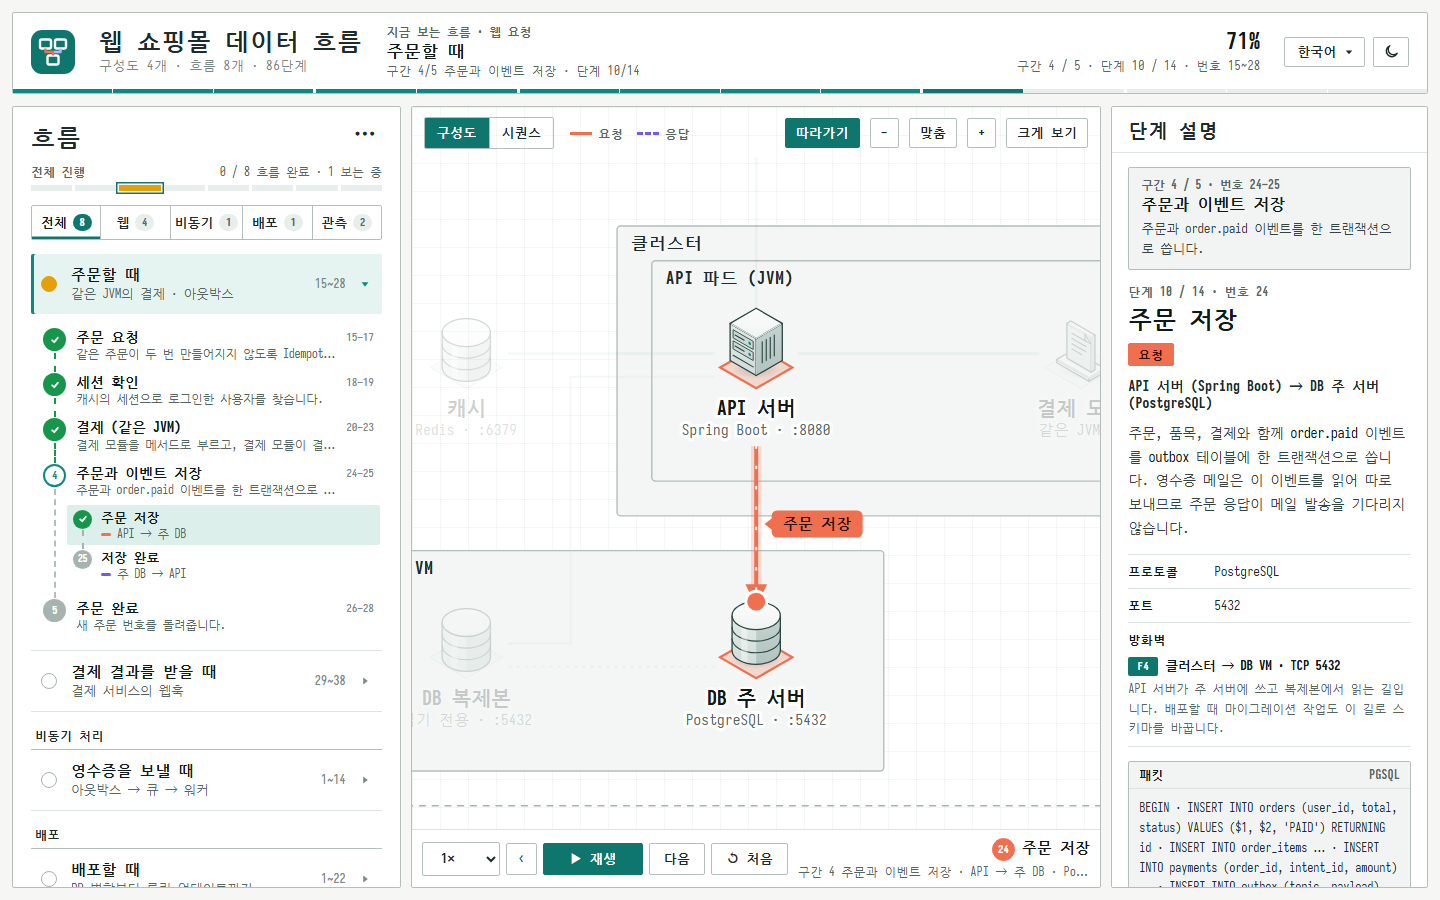
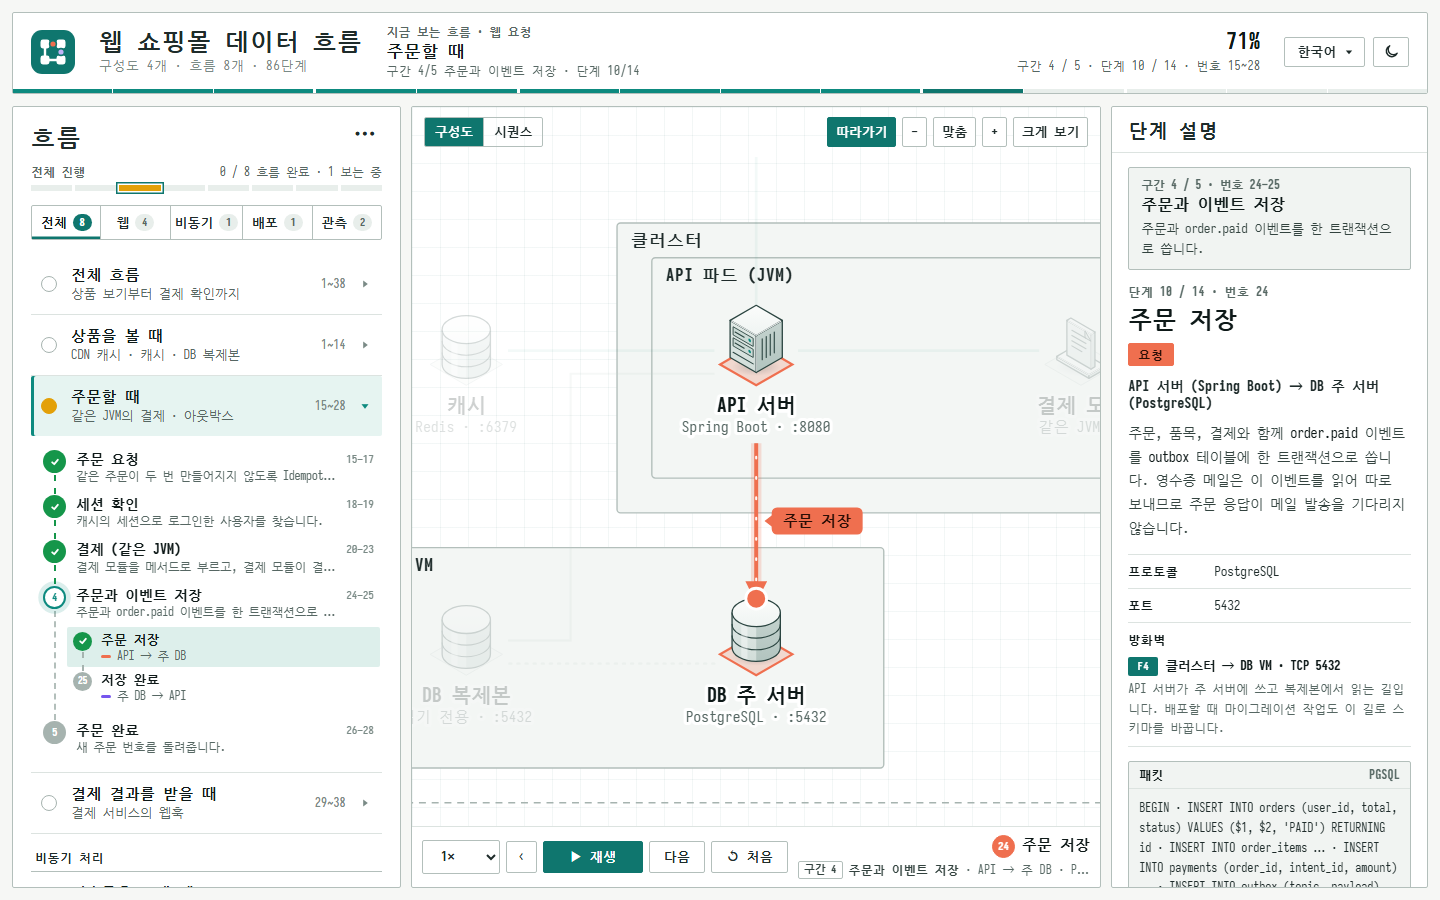
docs: restyle the README with a centered header, badges and tables
Centered logo, name, badges and tagline up top, then short H2 sections
with annotated code blocks and tables for the screen layout, examples
and data files. Adds docs/logo.svg (the header logo as a standalone
file) and retakes both screenshots on the current engine.

diff --git a/README.md b/README.md
@@ -1,57 +1,128 @@
-# flow-explorer
+<p align="center">
+  <img src="docs/logo.svg" width="80" alt="flow-explorer 로고">
+</p>
 
-프로젝트의 구성(서버·컨테이너·DB·외부 서비스)과 요청·응답 흐름을 단계별로 재생하는 **데이터 흐름 탐색기**를 만드는 Claude Code 플러그인입니다. 결과는 글꼴·로고·데이터가 모두 들어간 HTML 파일 하나라서 인터넷 없이 열립니다.
+<h2 align="center">flow-explorer</h2>
+
+<p align="center">
+  <a href=".claude-plugin/plugin.json"><img src="https://img.shields.io/badge/version-0.2.4-1a1a1a?style=for-the-badge" alt="version 0.2.4"></a>
+  <a href="LICENSE"><img src="https://img.shields.io/badge/license-MIT-1a1a1a?style=for-the-badge" alt="MIT license"></a>
+  <a href="skills/flow-explorer/SKILL.md"><img src="https://img.shields.io/badge/Claude_Code-plugin-1a1a1a?style=for-the-badge&logo=anthropic&logoColor=white" alt="Claude Code plugin"></a>
+  <a href="https://www.python.org/"><img src="https://img.shields.io/badge/python-3.10+-1a1a1a?style=for-the-badge&logo=python&logoColor=white" alt="Python 3.10+"></a>
+</p>
+
+<p align="center">
+  <strong>프로젝트의 구성과 요청·응답 흐름을 단계별로 재생하는 데이터 흐름 탐색기를 HTML 파일 하나로 만듭니다.</strong><br>
+  글꼴·로고·데이터가 모두 들어 있어 인터넷 없이 열립니다. 화면은 한국어이고, 번역 파일을 더하면 일본어로도 볼 수 있습니다.
+</p>
+
+---
+
+Claude Code 플러그인입니다. 설치한 뒤 "이 저장소의 데이터 흐름 탐색기 만들어줘"라고 하면 `flow-explorer` 스킬이 저장소를 읽어 서버·컨테이너·DB·외부 서비스의 구성도와 흐름 데이터를 만들고, 그 자리에서 HTML 하나로 빌드합니다.
 
 ![구성도 화면: API 서버가 주문과 이벤트를 한 트랜잭션으로 DB 주 서버에 저장하는 단계. 오른쪽에 방화벽 규칙과 실제 SQL 패킷이 보인다](docs/screenshot-network.png)
 
 ![시퀀스 화면(일본어, 다크 테마): Prometheus가 DB VM 전체의 지표를 가져오고 경보를 Slack으로 보내는 흐름](docs/screenshot-sequence.png)
 
-화면은 [examples/web-shop](examples/web-shop) 예제입니다.
+<p align="center"><sub>두 화면 모두 <a href="examples/web-shop">examples/web-shop</a> 예제입니다.</sub></p>
 
-- 왼쪽: 흐름 목록과 구간·단계 진행(지나간 단계는 초록 체크), 흐름마다 끝까지 봤는지 보여 주는 전체 진행, 구성도별 필터 탭
-- 가운데: 아이소메트릭 구성도(패킷이 노드 사이를 움직이고 카메라가 단계를 따라감)와 시퀀스 화면. 구성도는 여러 개를 둘 수 있고, VM·망·외부 시스템 상자, 번호 없는 배경 연결(복제, 대시보드가 읽는 데이터 등)도 그립니다.
-- 오른쪽: 단계 설명(경로, 프로토콜, 포트, 방화벽 규칙과 여는 이유, 실제 패킷). 같은 프로세스 안의 메서드 호출은 패킷 대신 호출로 보여 줍니다.
-- 머리: 지금 보는 흐름과 진행률, 언어 메뉴(한국어·日本語), 라이트·다크 테마. 화면 글자는 엔진이, 데이터 글은 번역 파일(`ja.js`)이 바꿉니다.
-- 색: 데이터 폴더의 CSS 파일로 바꿀 수 있습니다(`data.json`의 `css`).
+### 화면 구성
+
+| 영역 | 내용 |
+|---|---|
+| **왼쪽** | 흐름 목록과 구간·단계 진행(지나간 단계는 초록 체크), 흐름마다 끝까지 봤는지 보여 주는 전체 진행, 구성도별 필터 탭 |
+| **가운데** | 아이소메트릭 구성도(패킷이 노드 사이를 움직이고 카메라가 단계를 따라감)와 시퀀스 화면. 구성도는 여러 개를 둘 수 있고, VM·망·외부 시스템 상자와 번호 없는 배경 연결(복제, 대시보드가 읽는 데이터 등)도 그립니다 |
+| **오른쪽** | 단계 설명: 경로, 프로토콜, 포트, 방화벽 규칙과 여는 이유, 실제 패킷. 같은 프로세스 안의 메서드 호출은 패킷 대신 호출로 보여 줍니다 |
+| **머리** | 지금 보는 흐름과 진행률, 언어 메뉴(한국어·日本語), 라이트·다크 테마 |
+
+화면 글자는 엔진이 바꾸고, 데이터 글은 번역 파일(`ja.js`)이 바꿉니다. 색은 데이터 폴더의 CSS 파일로 바꿀 수 있습니다(`data.json`의 `css`).
 
 ## 설치
+
+### 플러그인
+
+Claude Code 안에서 실행합니다.
 
 ```text
 /plugin marketplace add wongi-jeong/flow-explorer
 /plugin install flow-explorer@flow-explorer
 ```
 
-설치한 뒤 프로젝트에서 "이 저장소의 데이터 흐름 탐색기 만들어줘"처럼 요청하면 `flow-explorer` 스킬이 저장소를 읽어 데이터 폴더를 만들고 빌드합니다. `/flow-explorer:flow-explorer`로 직접 부를 수도 있습니다.
+### 빌드 도구
 
-필요한 것: Python 3.10 이상, `pip install fonttools brotli playwright`, `python -m playwright install chromium`
-
-## 예제 빌드
-
-- [examples/web-shop](examples/web-shop): 쇼핑몰 웹 서비스(웹 요청 · 비동기 처리 · 배포 · 관측 구성도 4개, 흐름 8개, 86단계). 데이터 형식의 기능을 모두 씁니다.
-- [examples/web-oauth](examples/web-oauth): nginx 뒤의 앱 서버와 PostgreSQL, Keycloak OpenID Connect 로그인(인가 코드 + PKCE). 구성도 하나로 된 작은 예제입니다.
+빌드는 Python으로 합니다. 글꼴 부분 집합과 스크린샷 검사에 아래 패키지가 필요합니다.
 
 ```bash
+# Python 3.10 이상
+pip install fonttools brotli playwright
+python -m playwright install chromium
+```
+
+## 빠른 시작
+
+### 내 프로젝트에서
+
+프로젝트 폴더를 연 Claude Code에서 요청하면 됩니다. 스킬을 직접 부를 수도 있습니다.
+
+```text
+이 저장소의 데이터 흐름 탐색기 만들어줘
+```
+
+```text
+/flow-explorer:flow-explorer
+```
+
+### 예제 빌드
+
+```bash
+# 로고 받기 (각 회사의 상표라 저장소에 넣지 않고 빌드 전에 받습니다)
 python skills/flow-explorer/fetch_icons.py examples/web-oauth
+
+# HTML 하나로 빌드
 python skills/flow-explorer/build.py examples/web-oauth out/web-oauth.html
+
+# 검사: 모든 단계를 지나며 JS 오류 · 패킷 누락 · 로고 겹침 · 번역 누락을 보고 스크린샷을 남김
 python skills/flow-explorer/tests/smoke.py out/web-oauth.html out/shots
 ```
 
-web-shop은 Loki 로고를 공식 파일로 받는 인수가 하나 더 필요합니다([examples/README.md](examples/README.md)).
+web-shop은 Loki 로고를 공식 파일로 받는 인수가 하나 더 필요합니다. [examples/README.md](examples/README.md)에 있습니다.
 
-데이터 형식은 [skills/flow-explorer/references/data-format.md](skills/flow-explorer/references/data-format.md)에 있습니다.
+## 예제
+
+| 폴더 | 내용 | 크기 |
+|---|---|---|
+| [web-shop](examples/web-shop) | 쇼핑몰 웹 서비스. 웹 요청 · 비동기 처리 · 배포 · 관측 구성도 4개. 데이터 형식의 기능을 모두 씁니다 | 흐름 8개 · 86단계 |
+| [web-oauth](examples/web-oauth) | nginx 뒤의 앱 서버와 PostgreSQL, Keycloak OpenID Connect 로그인(인가 코드 + PKCE). 구성도 하나로 된 작은 예제 | 흐름 4개 · 36단계 |
+
+## 데이터 형식
+
+프로젝트마다 다른 내용은 데이터 폴더에만 씁니다. 엔진은 고치지 않습니다.
+
+| 파일 | 내용 |
+|---|---|
+| `data.json` | 제목, 언어 목록, 구성도·스크립트 파일 목록 |
+| `topology.js` | 노드, 선, 그룹 상자, 방화벽 규칙, 구성도(여러 개 가능) |
+| `flows.js` | 흐름과 단계(경로 · 프로토콜 · 포트 · 방화벽), 흐름 단계 이름 |
+| `groups.js` | 단계를 묶는 구간과 설명 |
+| `packets.js` | 단계마다 실제로 오가는 패킷 |
+| `ja.js` | 데이터 글의 일본어 번역(선택) |
+| `theme.css` | 엔진의 CSS 변수를 덮어써 색을 바꿈(선택, `data.json`의 `css`에 적음) |
+
+전체 형식은 [skills/flow-explorer/references/data-format.md](skills/flow-explorer/references/data-format.md)에 있습니다.
 
 ## 라이선스
 
-- 코드: [MIT](LICENSE)
-- 글꼴: SIL Open Font License 1.1. 원문은 [skills/flow-explorer/engine/fonts/](skills/flow-explorer/engine/fonts/)에 있습니다.
-  - [Iosevka](https://github.com/be5invis/Iosevka) 22.1.2: 라틴 글자, 문장 부호, 화살표, 도형 일부만 남긴 부분 글꼴입니다.
-  - [Nanum Gothic Coding](https://github.com/naver/nanumfont): 빌드할 때 페이지에 쓰인 글자만 골라 넣습니다. 예약 글꼴 이름(Nanum 등) 조항에 따라 줄인 글꼴의 이름은 "Flow Hangul Coding"입니다.
-  - [M PLUS 1 Code](https://github.com/coz-m/MPLUS_FONTS): 데이터에 일본어(`ja`)가 있을 때만 쓰인 글자를 골라 굵기 400·700으로 넣습니다.
-  - 빌드한 HTML에도 글꼴마다 저작권과 OFL 정보가 들어갑니다(글꼴 name 테이블과 HTML 안의 주석).
-- 로고: 각 회사의 상표입니다. 이 저장소에는 넣지 않고, `fetch_icons.py`가 [svgl](https://svgl.app), [devicon](https://devicon.dev), [gilbarbara/logos](https://github.com/gilbarbara/logos)에서 받습니다.
+- **코드**: [MIT](LICENSE)
+- **글꼴**: SIL Open Font License 1.1. 원문은 [skills/flow-explorer/engine/fonts/](skills/flow-explorer/engine/fonts/)에 있고, 빌드한 HTML에도 글꼴마다 저작권과 OFL 정보가 들어갑니다.
+  - [Iosevka](https://github.com/be5invis/Iosevka) 22.1.2: 라틴 글자, 문장 부호, 화살표, 도형 일부만 남긴 부분 글꼴
+  - [Nanum Gothic Coding](https://github.com/naver/nanumfont): 빌드할 때 페이지에 쓰인 글자만 골라 넣습니다. 예약 글꼴 이름 조항에 따라 줄인 글꼴의 이름은 "Flow Hangul Coding"입니다
+  - [M PLUS 1 Code](https://github.com/coz-m/MPLUS_FONTS): 데이터에 일본어(`ja`)가 있을 때만 쓰인 글자를 골라 굵기 400·700으로 넣습니다
+- **로고**: 각 회사의 상표입니다. 이 저장소에는 넣지 않고, `fetch_icons.py`가 [svgl](https://svgl.app), [devicon](https://devicon.dev), [gilbarbara/logos](https://github.com/gilbarbara/logos)에서 받습니다.
 
 ## 감사
 
 패킷이 오가는 모습을 단계별로 보여 주는 화면은 Dilum Sanjaya의 [Protocol Explorer](https://protocol-explorer-alpha.vercel.app/)에서 아이디어를 얻었습니다. 이 저장소의 코드, 색, 아이콘은 따로 만든 것입니다.
 
 Inspired by [Protocol Explorer](https://protocol-explorer-alpha.vercel.app/) by Dilum Sanjaya. The code, colors and icons in this repository are original work.
+
+---
